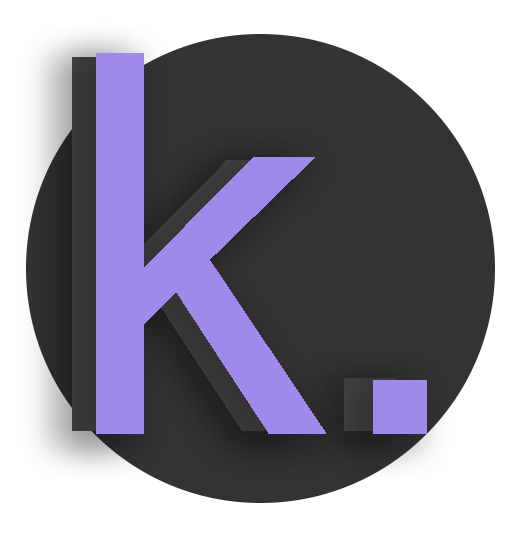
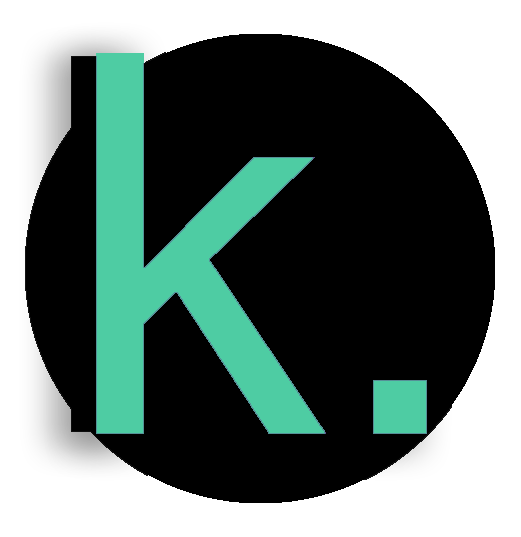
changed layout and design #2

diff --git a/default.css b/default.css
@@ -1,18 +1,18 @@
 /* @import url("https://fonts.googleapis.com/css2?family=Montserrat&family=Oswald:wght@500&display=swap"); */
 @import url("https://fonts.googleapis.com/css2?family=Poppins:wght@300&family=Staatliches&display=swap");
 :root {
-    --primaryColour: #fff;
-    --secondaryColour: #655892;
-    --secondaryBG: #f1f1f1;
+    --primaryColour: #000;
+    --secondaryColour: #4ecca3;
+    --secondaryBG: rgb(12, 12, 12);
 
-    --borderColour: #96a7b49d;
+    --borderColour: #6eb49d;
 
-    --primaryText: #333333;
-    --secondaryText: #51405c;
+    --primaryText: #f1f1f1;
+    --secondaryText: #bdbdd7;
 
-    --previewShadow: #444444;
+    --previewShadow: #eeeeee;
 
-    --textShadow: #9f8cbd9d;
+    --textShadow: #6eb49d;
 }
 
 html,
@@ -41,6 +41,28 @@ h6 {
 .intro p {
     padding: 0;
     margin: 0;
+    color: var(--primaryText);
+}
+
+.intro h1 {
+    background-image: -webkit-linear-gradient(
+        180deg,
+        var(--secondaryColour),
+        #feab3a
+    );
+    -webkit-text-fill-color: transparent;
+    -webkit-animation: hue 4s infinite linear;
+    -webkit-background-clip: text;
+    -webkit-text-fill-color: transparent;
+}
+
+@-webkit-keyframes hue {
+    from {
+        -webkit-filter: hue-rotate(0deg);
+    }
+    to {
+        -webkit-filter: hue-rotate(-360deg);
+    }
 }
 
 p,
@@ -62,12 +84,11 @@ a {
     transition: color 0.3s ease-out;
 
     text-decoration: none;
-    color: var(--secondaryColour);
+    color: var(--borderColour);
 }
 
 a:hover {
-    text-shadow: 2px 2px #9f8cbd7e;
-    color: #504577;
+    color: var(--secondaryColour);
 }
 
 /* ul {
@@ -99,12 +120,12 @@ h6 {
 .s1 {
     overflow: hidden;
     background-color: var(--primaryColour);
-    border-bottom: 1px solid var(--borderColour);
+    border-bottom: 0.5px solid var(--secondaryText);
 }
 
 .s2 {
     background-color: var(--secondaryBG);
-    border-bottom: 1px solid var(--borderColour);
+    border-bottom: 0.5px solid var(--secondaryColour);
     overflow: auto;
 }
 
@@ -159,9 +180,8 @@ h6 {
 }
 
 .nav-wrapper a:hover {
-    color: var(--primaryColour);
+    color: var(--primaryText);
     text-decoration: none;
-    text-shadow: 3px 2px #bfb1e5a1;
 }
 
 #navigation {
@@ -176,37 +196,8 @@ h6 {
     margin-top: 5px;
 }
 
-.left-column {
-    height: 75vh;
-    grid-area: left-column;
-    padding-top: 50px;
-    padding-bottom: 50px;
-}
-
 .img-container {
     display: grid;
-}
-
-.intro {
-    margin: auto;
-}
-
-.big-cir {
-    position: absolute;
-    right: 20%;
-    /* left: 80px; */
-
-    height: 260px;
-    width: 260px;
-    border-radius: 50%;
-
-    margin: 0 auto;
-    background-image: linear-gradient(
-        180deg,
-        rgb(126, 126, 163),
-        rgb(100, 79, 134)
-    );
-    display: block;
 }
 
 #preview {
@@ -240,7 +231,7 @@ ul {
     -o-transition: color 0.5s ease-out;
     transition: color 0.5s ease-out;
 
-    color: var(--secondaryText);
+    color: var(--secondaryColour);
     padding-top: 10px;
     font-size: 36px;
     display: block;
@@ -250,7 +241,7 @@ ul {
 }
 
 .social-item a:hover {
-    color: var(--secondaryColour);
+    color: #e2e2e2;
 }
 
 .about-wrapper {
@@ -272,7 +263,7 @@ ul {
 }
 
 .btn:hover {
-    color: #ddd;
+    color: var(--secondaryBG);
 }
 
 .post-wrapper {
@@ -284,7 +275,7 @@ ul {
 }
 
 .post {
-    border: 2px solid var(--secondaryColour);
+    border: 0.5px solid #444;
     -webkit-box-shadow: -2px 7px 10px -7px rgba(0, 0, 0, 0.75);
     -moz-box-shadow: -2px 7px 10px -7px rgba(0, 0, 0, 0.75);
     box-shadow: -2px 7px 10px -7px rgba(0, 0, 0, 0.75);
@@ -298,7 +289,7 @@ ul {
 }
 
 .post-preview {
-    background-color: #ffffff;
+    background-color: var(--secondaryBG);
     padding: 20px;
 }
 
@@ -307,13 +298,13 @@ ul {
 }
 
 .post-intro {
-    color: #4b5156;
+    color: var(--secondaryText);
 }
 
 /* New styles for intro */
 
 .container {
-    padding: 220px 160px 200px 160px;
+    padding: 220px 200px 200px 200px;
     display: flex;
     margin: 0;
 }
@@ -379,7 +370,7 @@ ul {
     #profile_pic {
         border: 1px solid var(--secondaryText);
         position: relative;
-        padding: 0;
+        padding: 5px;
         margin: 0 auto;
         height: 250px;
         width: 250px;
@@ -485,7 +476,7 @@ ul {
         border: 1px solid var(--secondaryText) !important;
         position: relative;
         top: -120px;
-        padding: 0;
+        padding: 5px;
         margin: 0 auto;
         height: 250px;
         width: 250px;
@@ -504,7 +495,7 @@ ul {
     }
 
     .img-wrapper {
-        margin: 0 60px;
+        margin: 0 70px;
         padding: 0;
         /* display: flex; */
     }

diff --git a/index.html b/index.html
@@ -51,9 +51,10 @@
                     <h1>Ketuman Vishwakarma</h1>
 
                     <p style="font-size: medium; padding: 10px 0;">I am Software Developer in the making! <br>
-                        Spending my time toiling with web these days. 👨🏾💻 </p>
+                        Spending my time toiling with the web these days. 👨🏾💻 </p>
 
-                    <div style="margin: 10px 0; width: 500px; padding: 0.5px;" class="line"></div>
+                    <div style="background-color: #4e8371; margin: 10px 0; width: 500px; padding: 0.5px;" class="line">
+                    </div>
 
                     <ul class="social-icons" style="list-style-type: none; margin: 0;padding: 0; overflow: hidden;">
                         <li class="social-item">
